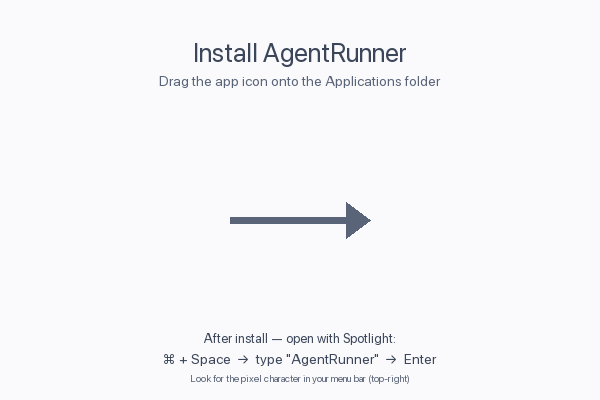
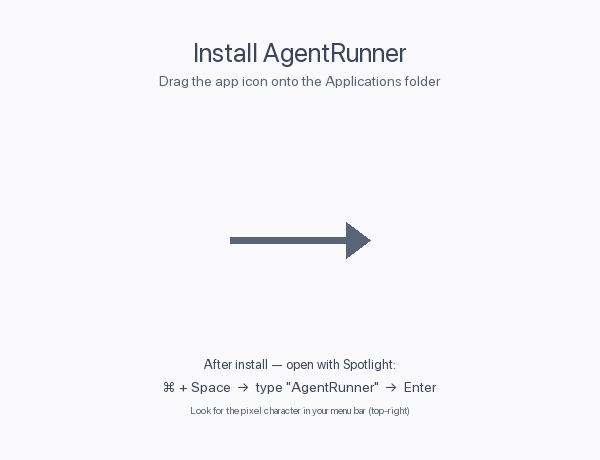
v1.0.12 — Cover IPv6 end-to-end, fix DMG footer clipping
Two latent IPv6 bugs combined with v1.0.11's accumulation refactor to
silently break detection on machines that prefer IPv6 to LLM endpoints
(api.anthropic.com has an AAAA record and macOS will route through it
when available). Symptom: cache filled with 25+ IPs but zero session
events while traffic flowed.

ProviderRegistry.resolve(): dig defaults to A records only, so the
cache never held the v6 addresses connections actually used. Now
queries A + AAAA and merges results.

NettopParser.splitHostPort(): assumed "[::1]:443" bracket notation, but
nettop emits "2607:6bc0::10.443" (port after the last '.'). Splitting
on the last ':' returned "10.443" as the port and dropped every IPv6
connection. Dispatch on the proto suffix (4 vs 6) so v4 keeps using ':'
and v6 uses '.'.

DMG packaging: macOS Sequoia Finder renders a tab bar inside the window
even with toolbar hidden, eating ~56px from --window-size's inner area
and clipping the bottom hint line. Bump --window-size height by 80px
and reflow the background to keep the Spotlight launch instructions
above any Finder chrome.

Changed region(s): [[0.27, 0.78, 0.72, 0.96], [0.24, 0.09, 0.75, 0.24], [0.36, 0.48, 0.63, 0.6]]

diff --git a/src/AgentRunner/NettopParser.swift b/src/AgentRunner/NettopParser.swift
@@ -87,8 +87,8 @@ final class NettopParser {
         let endpoints = parts.components(separatedBy: "<->")
         guard endpoints.count == 2 else { return nil }
 
-        guard let (srcIP, srcPort) = splitHostPort(endpoints[0]),
-              let (dstIP, dstPort) = splitHostPort(endpoints[1]) else {
+        guard let (srcIP, srcPort) = splitHostPort(endpoints[0], proto: proto),
+              let (dstIP, dstPort) = splitHostPort(endpoints[1], proto: proto) else {
             return nil
         }
 
@@ -103,16 +103,24 @@ final class NettopParser {
         )
     }
 
-    private func splitHostPort(_ s: String) -> (host: String, port: Int)? {
-        // IPv6는 "[::1]:443" 같은 표기. IPv4는 "1.2.3.4:443".
-        // 호스트명 ("xxx.1e100.net:443")도 가능.
-        guard let colonIdx = s.lastIndex(of: ":") else { return nil }
-        let hostPart = s[..<colonIdx]
-        let portPart = s[s.index(after: colonIdx)...]
+    private func splitHostPort(_ s: String, proto: String) -> (host: String, port: Int)? {
+        // nettop 표기 (대괄호 안 씀):
+        //   tcp4/udp4 → "1.2.3.4:443" 또는 "host.com:443"  (포트는 ':' 뒤)
+        //   tcp6/udp6 → "2607:6bc0::10.443" 또는 "host.com.443" (포트는 마지막 '.' 뒤)
+        let isV6 = proto.hasSuffix("6")
+        let sepIdx: String.Index?
+        if isV6 {
+            sepIdx = s.lastIndex(of: ".")
+        } else {
+            sepIdx = s.lastIndex(of: ":")
+        }
+        guard let idx = sepIdx else { return nil }
+        let hostPart = s[..<idx]
+        let portPart = s[s.index(after: idx)...]
         // 와일드카드 포트("*") 제외
         guard let port = Int(portPart) else { return nil }
-        // IPv6 대괄호 제거
         var host = String(hostPart)
+        // 혹시 모를 IPv6 대괄호 표기 호환
         if host.hasPrefix("["), host.hasSuffix("]") {
             host = String(host.dropFirst().dropLast())
         }

diff --git a/src/AgentRunner/ProviderRegistry.swift b/src/AgentRunner/ProviderRegistry.swift
@@ -269,9 +269,15 @@ final class ProviderRegistry {
             if let colon = host.firstIndex(of: ":") { return String(host[..<colon]) }
             return host
         }()
+        // dig 기본은 A(IPv4)만 반환. macOS가 IPv6로 routing할 때 매칭이 0이 돼 망가지므로
+        // A와 AAAA를 모두 조회한다. (Claude Code → api.anthropic.com 트래픽은 IPv6로 나감)
+        return digQuery(pureHost, type: "A") + digQuery(pureHost, type: "AAAA")
+    }
+
+    private func digQuery(_ host: String, type: String) -> [String] {
         let proc = Process()
         proc.executableURL = URL(fileURLWithPath: "/usr/bin/dig")
-        proc.arguments = ["+short", "+timeout=2", "+tries=1", pureHost]
+        proc.arguments = ["+short", "+timeout=2", "+tries=1", "-t", type, host]
         let pipe = Pipe()
         proc.standardOutput = pipe
         proc.standardError = Pipe()

diff --git a/scripts/make_dmg_bg.py b/scripts/make_dmg_bg.py
@@ -10,7 +10,8 @@ HERE = os.path.dirname(os.path.abspath(__file__))
 ROOT = os.path.dirname(HERE)
 OUT = os.path.join(ROOT, "docs", "dmg_bg.png")
 
-W, H = 600, 400
+W, H = 600, 460
+BOTTOM_SAFE = 56  # Finder pathbar/statusbar reserves ~28px on modern macOS — keep margin
 BG = (250, 250, 252, 255)
 ACCENT = (90, 100, 120, 255)
 ACCENT_LIGHT = (90, 100, 120, 80)
@@ -48,8 +49,8 @@ sw, sh = d.textbbox((0, 0), subtitle, font=f_sub)[2:]
 d.text(((W - sw) / 2, 72), subtitle, fill=ACCENT, font=f_sub)
 
 # Arrow (between icon positions)
-# Icons will be placed at ~ (150, 220) and (450, 220) in a 600x400 window
-arrow_y = 220
+# Icons will be placed at ~ (150, 240) and (450, 240) in a 600x460 window
+arrow_y = 240
 arrow_start_x = 230
 arrow_end_x = 370
 shaft_thickness = 6
@@ -68,21 +69,24 @@ d.polygon(
     fill=ACCENT,
 )
 
-# Footer — how to launch (the trickiest step for menu bar apps)
-f_launch = font(13)
-launch_title = "After install — open with Spotlight:"
-ltw = d.textbbox((0, 0), launch_title, font=f_launch)[2]
-d.text(((W - ltw) / 2, H - 70), launch_title, fill=TEXT, font=f_launch)
+# Footer — how to launch (the trickiest step for menu bar apps).
+# Stack upward from BOTTOM_SAFE so Finder's pathbar/statusbar can't clip text.
+f_hint = font(10)
+hint = "Look for the pixel character in your menu bar (top-right)"
+hw = d.textbbox((0, 0), hint, font=f_hint)[2]
+hint_y = H - BOTTOM_SAFE
+d.text(((W - hw) / 2, hint_y), hint, fill=ACCENT, font=f_hint)
 
 f_kbd = font(14, bold=True)
 launch_step = "⌘ + Space  →  type \"AgentRunner\"  →  Enter"
 lsw = d.textbbox((0, 0), launch_step, font=f_kbd)[2]
-d.text(((W - lsw) / 2, H - 50), launch_step, fill=TEXT, font=f_kbd)
+kbd_y = hint_y - 26
+d.text(((W - lsw) / 2, kbd_y), launch_step, fill=TEXT, font=f_kbd)
 
-f_hint = font(10)
-hint = "Look for the pixel character in your menu bar (top-right)"
-hw = d.textbbox((0, 0), hint, font=f_hint)[2]
-d.text(((W - hw) / 2, H - 28), hint, fill=ACCENT, font=f_hint)
+f_launch = font(13)
+launch_title = "After install — open with Spotlight:"
+ltw = d.textbbox((0, 0), launch_title, font=f_launch)[2]
+d.text(((W - ltw) / 2, kbd_y - 22), launch_title, fill=TEXT, font=f_launch)
 
 img.save(OUT)
 print(f"DMG bg → {OUT} ({W}x{H})")
